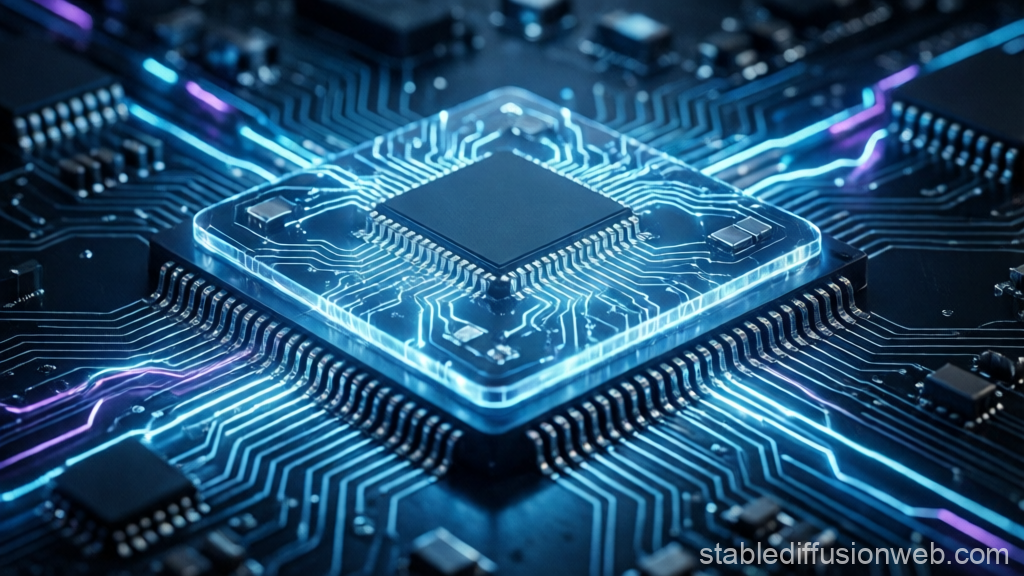
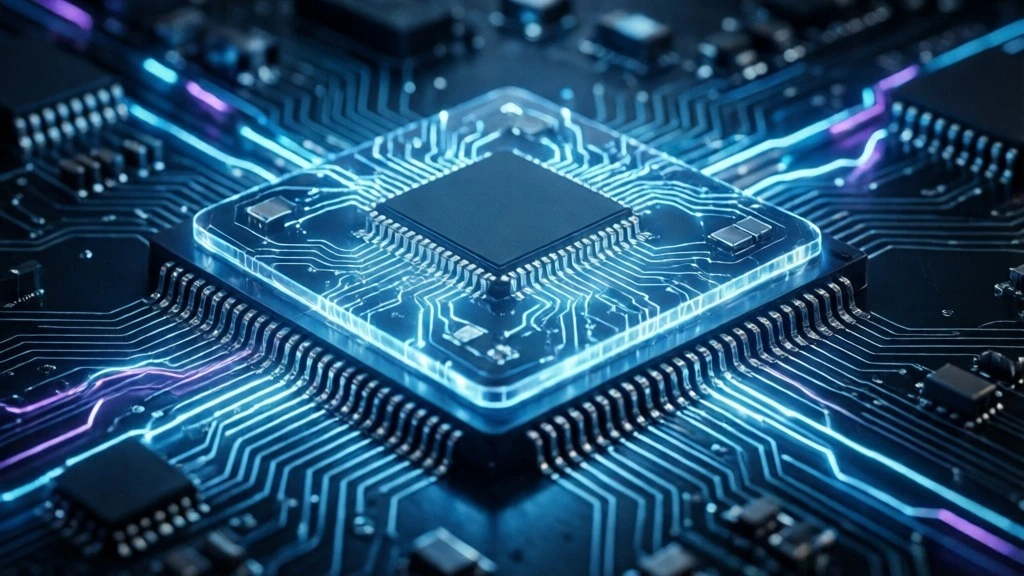
style updates

Changed region(s): [[0.6875, 0.9375, 1.0, 1.0]]

diff --git a/components/Common/AppHeader/Search.jsx b/components/Common/AppHeader/Search.jsx
@@ -75,7 +75,7 @@ const SearchInput = styled.input`
     width: 100%;
     padding: 14px;
     font-size: 16px;
-    color: ${({ theme }) => theme.colors.textGray};
+    color: ${({ theme }) => theme.colors.textWhite};
     box-sizing: border-box;
     outline: none;
     background-color: ${({ theme, altBg }) => (altBg ? theme.colors.altBackground : theme.colors.whiteBackground)};
